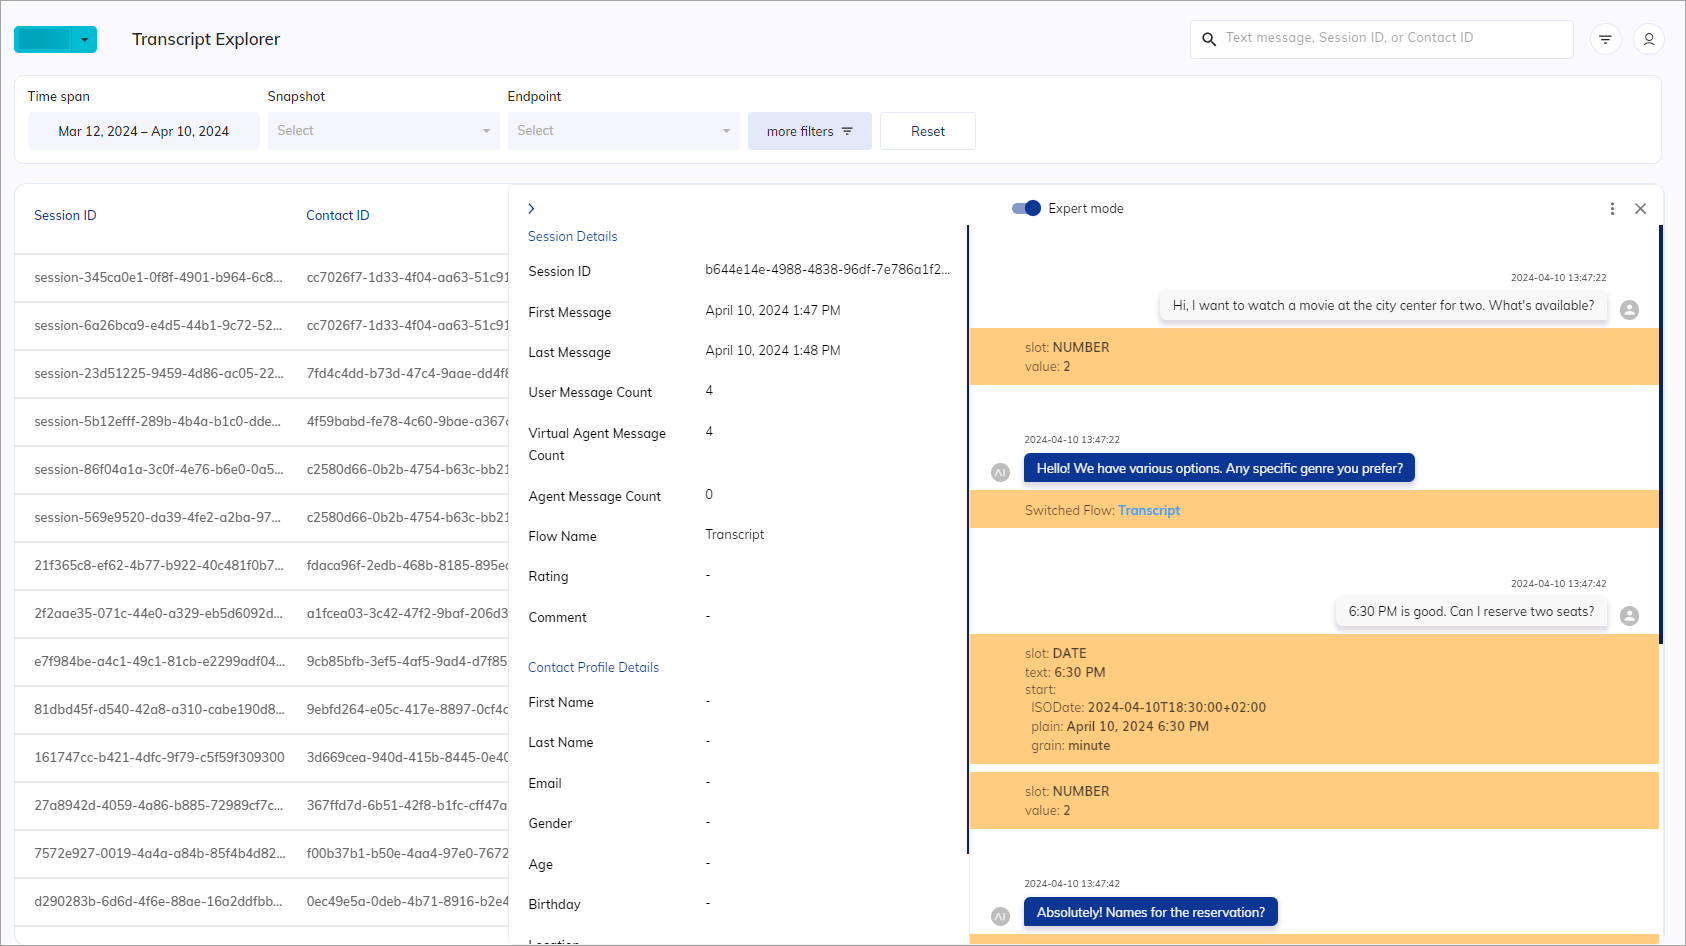
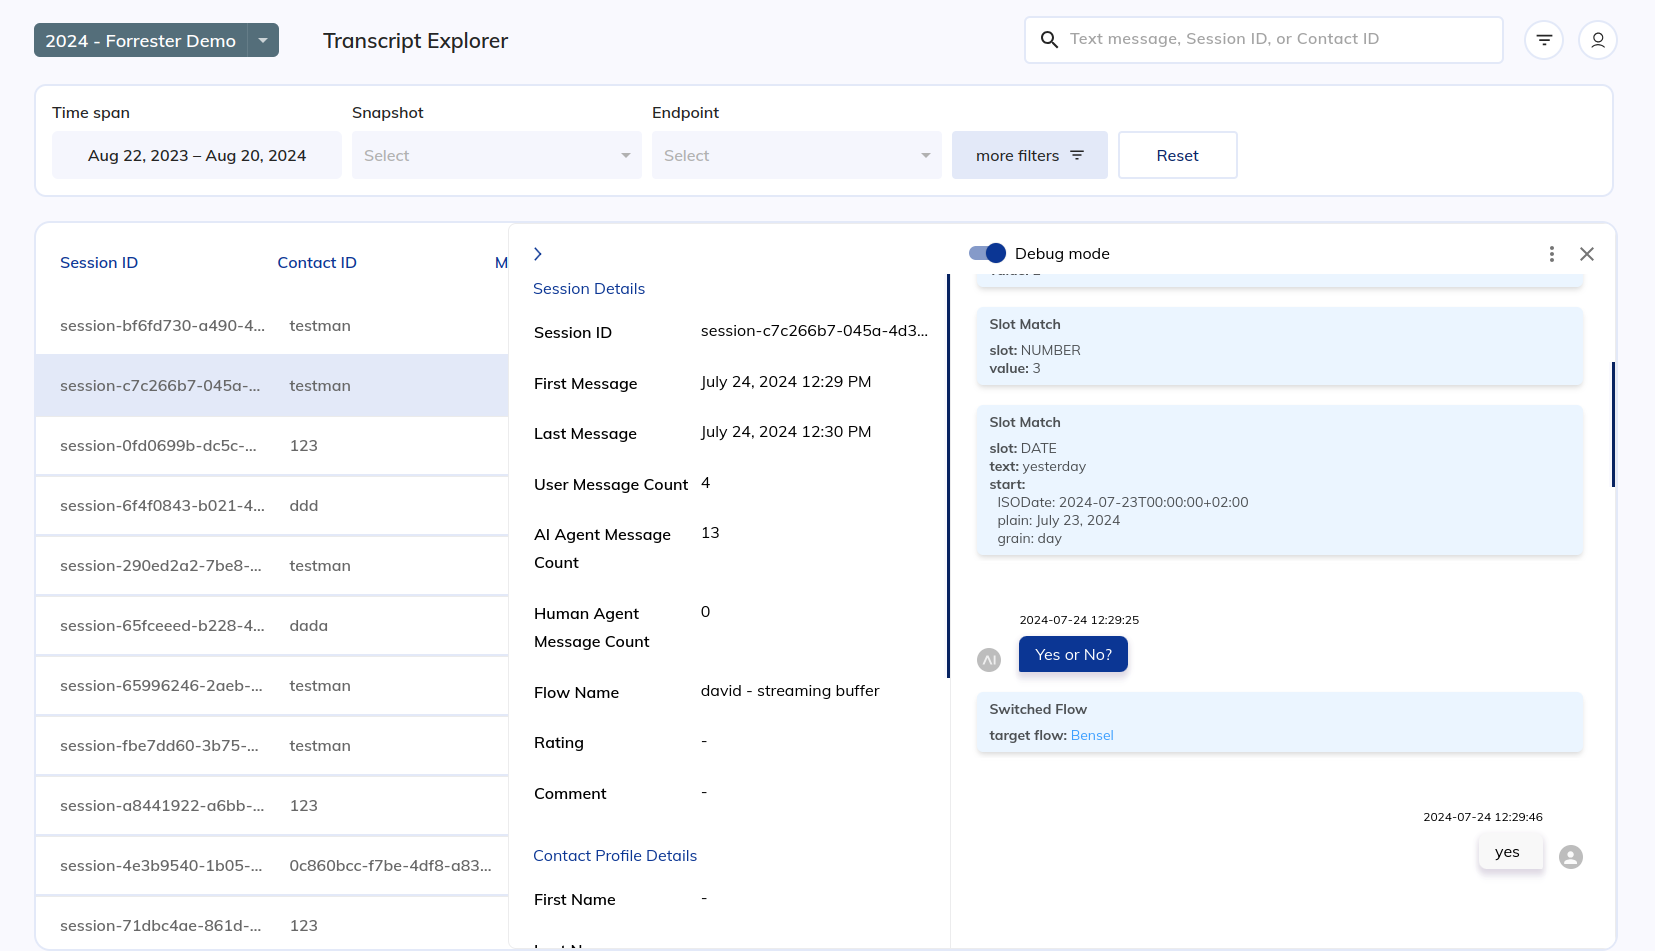
Added Debug Mode documentation

diff --git a/docs/ai/test/interaction-panel/overview.md b/docs/ai/test/interaction-panel/overview.md
@@ -22,7 +22,7 @@ follow these steps to familiarize yourself with its features and start testing A
 1. [Open the Interaction Panel](#open-the-interaction-panel) and [configure the Project-related settings](#project-related-settings).
 2. [Select the mode](#test) in which you want to test the AI Agent.
 3. [Examine the data stored in the AI Agent's memory](#info) and how it's reused.
-4. Consider enabling [additional settings](#settings), such as [Expert mode](#expert-mode), for more detailed testing.
+4. Utilize the [Debug mode](#debug-mode) for more detailed testing.
 5. Run [Playbooks](#playbooks) to catch potential errors.
 
 ## Open the Interaction Panel
@@ -118,6 +118,7 @@ In **Chat** mode, you can use additional settings:
 - **Reset Session** — the setting clears the chat history in the Interaction Panel. 
 - **Create Playbook** — the setting starts a new Playbook for testing conversations. For more information, refer to [Playbooks](../playbooks.md).
 - **Create Playbook with Assertions** — the setting starts a new Playbook with assertions for in-depth testing. For more information, refer to [Playbook with Assertions](../playbooks.md#assertion).
+- **Enable/Disable Debug Mode** - the setting toggles the [Debug mode](#debug-mode) (enabled by default)
 
 #### Voice Call
 
@@ -248,8 +249,10 @@ To configure the relevant settings for the Interaction Panel, click the tab **Se
 | **General**                       |                                                                                                                                                                |
 | NLU Connector                     | Provides a selection list. The default is the Cognigy NLU engine.                                                                                              |
 | Text to Speech                    | Reads out messages from the system.                                                                                                                            |
-| Expert Mode                       | Displays additional information about the Flow.                                                                                                                |
 | Channel Selection                 | Provides a selection list for Endpoint providers.                                                                                                              |
+| **Debug Mode**                    |                                                                                                                                                                |
+| Debug Mode toggle                 | Enable/disable Debug Mode.                                                                                                                |
+| Node Filter                       | Select the Node types to show in Debug mode.                                                                                                                   |
 | **Chat**                          |                                                                                                                                                                |
 | Show Data Input                   | Displays data input.                                                                                                                                           |
 | **Voice Call**                    |                                                                                                                                                                |
@@ -278,25 +281,34 @@ For more information on how to manage NLU connectors, refer to [NLU Connectors](
 The **Chat Output** setting lets you customize how information is displayed in the Interaction Panel:
 
 - [Text to Speech](#text-to-speech) — activate this setting to have system messages read aloud.
-- [Expert mode](#expert-mode) — activate this mode to view more details about the Flow execution.
+- [Debug mode](#debug-mode) — activate this mode to view more details about the Flow execution.
 - [Channel Select](#channel-select) — select the channels you want to display from the list.
 
 ##### Text-to-Speech
 
 When the **Text-to-Speech** setting is enabled, an AI Agent will vocalize its responses using your browser's built-in Text-to-Speech (TTS) functionality.
 
-##### Expert Mode
+##### Debug Mode
 
 [![Version badge](https://img.shields.io/badge/Updated in-v4.47-blue.svg)](../../../release-notes/4.47.md)
 
-If the **Expert Mode** setting is enabled, the Interaction Panel displays more information about the Flow execution, including:
+If the **Debug Mode** setting is enabled, the Interaction Panel displays more information about the Flow execution, including:
 
 - Triggered [Intents](../../empower/nlu/intents/ml-intents.md) and their [score](../../empower/nlu/intents/intent-analyzer.md).
 - Triggered [Yes/No Intents](../../empower/nlu/intents/yes-no-intents.md) and their [score](../../empower/nlu/intents/intent-analyzer.md).
-- The name of the Flow that was triggered. 
+- Matched [Slots](../../empower/nlu/slots-and-lexicons/slots.md)
+- Found [Lexicon Keyphrases](../../empower/nlu/slots-and-lexicons/lexicons.md)
+- [State](./state.md) changes
+- Flow Transitions, e.g. when executing a [Go To Node](../../build/node-reference/logic/go-to.md), an [Execute Flow Node](../../build/node-reference/logic/execute-flow.md), or triggering an [Attached Flow](../../empower/nlu/attachments/attached-flows.md).
+- Node specific output, e.g. from a [HTTP Request Node](../../build/node-reference/service/http-request.md). Some Nodes have settings to further configure their Debug Mode output. The Node specific outputs can be disabled granularly in the Interaction Panel [settings](#settings).
+
+Debug Messages can also be triggered explicitly, either using
+
+- the [Debug Message](../../build/node-reference/basic/debug-message.md) Node, or
+- the [debug actions](../../build/node-reference/basic/code/actions.md#actionslogdebugmessage--actionslogdebugerror--apilogdebugmessage--apilogdebugerror) in the Code Node
 
 <figure>
-  <img class="image-center" src="../../../../_assets/ai/test/interaction-panel/interaction-panel-chat-tab-expert-mode.png" width="80%" />
+  <img class="image-center" src="../../../../_assets/ai/test/interaction-panel/interaction-panel-chat-tab-debug-mode.png" width="80%" />
 </figure>
 
 ##### Channel Select

diff --git a/docs/insights/explorers/transcript.md b/docs/insights/explorers/transcript.md
@@ -110,7 +110,7 @@ To view a session transcript, select a session from the list on the **Transcript
 
 <figure>
   <img class="image-center" src="../../../_assets/insights/explorers/transcript/Transcript_Explorer_profile.png" width="100%" />
-  <figcaption>Session Transcript with Expert Mode</figcaption>
+  <figcaption>Session Transcript with Debug Mode</figcaption>
 </figure>
 
 ### Session Transcript
@@ -118,11 +118,11 @@ To view a session transcript, select a session from the list on the **Transcript
 Session transcripts display all individual messages between the end user and agent during their conversation. By selecting a session, the corresponding transcript will be displayed on the right side of the page.
 You can use the scroll bar to navigate through the messages in the **Session Transcript** window.
 
-#### Expert mode
+#### Debug Mode
 
-Insights' Expert mode is equivalent to the Expert mode in the  [Interaction Panel](../../ai/test/interaction-panel/overview.md#expert-mode) documentation.
+Insights' Debug mode is not fully equivalent to the Debug mode in the [Interaction Panel](../../ai/test/interaction-panel/overview.md#debug-mode) documentation. Debug Messages from Nodes (including Code Nodes and Debug Message Nodes) are only meant for immediate testing and therefore only viewable in the Interaction Panel.
 
-The Expert mode offers additional context for conversation messages, including:
+The Debug mode offers additional context for conversation messages, including:
 
 - Triggered Intent and its score
 - Filled Slots
@@ -132,12 +132,12 @@ The Expert mode offers additional context for conversation messages, including:
 
 Additionally, you can switch to a Flow related to the current session.
 
-To activate Expert mode, do the following:
+To activate Debug mode, do the following:
 
 1. Go to the Insights interface.
 2. From the left-side menu, select **Transcript Explorer**.
 3. On the **Transcript Explorer** page, select a session from the list. The session transcript will be displayed in a separate window on the right side.
-4. At the top of the **Session Transcript** window, activate the **Expert mode** toggle.
+4. At the top of the **Session Transcript** window, activate the **Debug mode** toggle.
 
 #### Playbooks
 

diff --git a/docs/insights/glossary.md b/docs/insights/glossary.md
@@ -41,8 +41,8 @@ _**Download Report**_
 _**Endpoints**_
 : Endpoints ensure that channel-specific input and output (images, galleries, voice) are converted to the standardized Input object. This means that a Cognigy Flow only needs to be developed once, after which it can be deployed to multiple channels by configuring Endpoints. Examples of Endpoints include Webchat, Voice Gateway, Microsoft Teams, and more. In Insights, you can select one or more Endpoints for analysis. For more information, read the [Endpoints](global-filters.md#endpoints) documentation.
 
-_**Expert Mode**_
-: This mode provides additional information for conversation messages, including the triggered Intent and its score, as well as the filled Slots. You can enable Expert Mode by toggling the switch at the top of the Transcript panel. For more information, read the [Expert Mode](explorers/transcript.md#expert-mode) documentation.
+_**Debug Mode**_
+: This mode provides additional information for conversation messages, including the triggered Intent and its score, as well as the filled Slots. You can enable Debug Mode by toggling the switch at the top of the Transcript panel. For more information, read the [Debug Mode](explorers/transcript.md#debug-mode) documentation.
 
 _**Engagement**_
 : A dashboard in Cognigy Insights that displays performance metrics for your agent, focusing on customer interactions in conversations. For more information, read the [Engagement Dashboard](dashboards/engagement.md) documentation.

diff --git a/docs/ai/build/node-reference/basic/debug-message.md b/docs/ai/build/node-reference/basic/debug-message.md
@@ -1,0 +1,25 @@
+---
+title: "Debug Message" 
+slug: "debug-message" 
+hidden: false 
+---
+
+# Debug Message
+
+<figure>
+  <img class="image-center" src="../../../../../_assets/ai/build/node-reference/message/debug-message.png" width="80%" />
+</figure>
+
+## Description
+
+A **Debug Message** Node is used to send a debug message to the Interaction Panel. To be able to view it, the [Debug Mode](../../../test/interaction-panel/overview.md#debug-mode) needs to be enabled. 
+
+## Settings
+
+| Parameter    | Type          | Description                  |
+|--------------|---------------|------------------------------|
+| Debug Level  | Select        | The Debug message level. Error messages will be displayed with a red background. One of:<br/>- Info<br/>- Error |
+| Header       | CognigyScript | The header text of the debug message. (optional)                                                                |
+| Message      | CognigyScript | The message text of the debug message. (required)                                                               |
+
+

diff --git a/docs/ai/build/node-reference/basic/code/actions.md b/docs/ai/build/node-reference/basic/code/actions.md
@@ -1,10 +1,10 @@
 ---
-title: "Action" 
+title: "Actions" 
 slug: "actions" 
 hidden: false 
 ---
 
-# Action
+# Actions
 
 [![Version badge](https://img.shields.io/badge/Updated in-v4.68-blue.svg)](../../../../../release-notes/4.68.md)
 
@@ -53,6 +53,21 @@ Sets the time zone offset from UTC.
 | Parameter | Type     | Description               |
 |-----------|----------|---------------------------|
 | offset    | *number* | The time offset in hours. |
+
+**Returns**
+
+void
+
+### actions.logDebugMessage / actions.logDebugError || api.logDebugMessage / api.logDebugError
+
+Send a debug message or debug error message. Only visible in the Interaction Panel's [Debug Mode](../../../../test/interaction-panel/overview.md#debug-mode).
+
+**Parameters**
+
+| Parameter | Type   | Description                                       |
+|-----------|--------|---------------------------------------------------|
+| message   | string | The debug message text.    |
+| header    | string | The Header text for the debug message (optional). |
 
 **Returns**
 

diff --git a/docs/ai/build/node-reference/service/http-request.md b/docs/ai/build/node-reference/service/http-request.md
@@ -170,7 +170,7 @@ By default, Cognigy.AI will reject connecting against insecure SSL endpoints, su
   <figcaption>Error Handling</figcaption>
 </figure>
 
-### Error Handling
+### Error Handling & Logging
 #### Error Logging
 If HTTP Requests return a status code > 299, the response is considered an error. This setting allows the user to either:
 
@@ -180,6 +180,14 @@ If HTTP Requests return a status code > 299, the response is considered an error
 
 #### Abort Flow Execution on Error
 If active, the Flow will stop here if the response returned with a status code > 299
+
+#### Debug Mode Logging
+Choose what information to log to [Debug Mode](../../../test/interaction-panel/overview.md#debug-mode) when using the Interaction Panel. The following options can be selected:
+
+- Do not log Request & Response
+- Request
+- Response
+- Request & Response
 
 ## GET Requests
 

diff --git a/docs/ai/empower/nlu/intents/intent-analyzer.md b/docs/ai/empower/nlu/intents/intent-analyzer.md
@@ -92,7 +92,7 @@ The **Intent Analyzer** uses a traffic light color system to provide users with 
 
 [![Version badge](https://img.shields.io/badge/Added in-v4.79-blue.svg)](../../../../release-notes/4.79.md)
 
-You can test NLU scores via the Interaction Panel by activating the [Expert Mode](../../../test/interaction-panel/overview.md#expert-mode) feature and exploring the detailed results in the `input.nlu.intentMapperResults.scores` object.
+You can test NLU scores via the Interaction Panel by activating the [Debug Mode](../../../test/interaction-panel/overview.md#debug-mode) feature and exploring the detailed results in the `input.nlu.intentMapperResults.scores` object.
 
 For more complex testing,
 you can use the API [POST /v2.0/projects/{projectId}/nlu/scores](https://api-trial.cognigy.ai/openapi#post-/v2.0/projects/-projectId-/nlu/scores) request

diff --git a/docs/ai/empower/nlu/nlu-warnings.md b/docs/ai/empower/nlu/nlu-warnings.md
@@ -23,7 +23,7 @@ Warnings will only be generated and forwarded to our user interface when the Int
 5. Go to the **Conditions** edit field and enter. For example, `input.includes==="condition"`.
 6. Click **Build Model** to finish the intent creation. Now user inputs can be scored of matching to the defined intent example sentences.
 7. Open the Interaction Panel on the right-hand side.
-8. For the scoring test, activate **Expert Mode** in the **SETTINGS** tab. Activated Expert Mode will show more detailed data on the Interaction Panel.
+8. For the scoring test, activate **Debug Mode** in the **SETTINGS** tab. Activated Debug Mode will show more detailed data on the Interaction Panel.
 
     <figure>
       <img class="image-center" src="../../../../_assets/ai/empower/nlu/expert-mode.png" width="100%" />

diff --git a/docs/ai/empower/nlu/intents/yes-no-intents.md b/docs/ai/empower/nlu/intents/yes-no-intents.md
@@ -98,7 +98,7 @@ To use Yes/No Intents for a specific Flow, do the following:
 ## Test your Flow by using the Interaction Panel
 
 !!! tip
-    Starting from Cognigy 4.47, Yes/No Intents are supported in [Expert mode](../../../test/interaction-panel/overview.md#expert-mode).
+    Starting from Cognigy 4.47, Yes/No Intents are supported in [Debug Mode](../../../test/interaction-panel/overview.md#debug-mode).
 
 Check if the Yes/No Intent feature works as expected via the [Interaction Panel](../../../test/interaction-panel/overview.md):
 

diff --git a/docs/ai/administer/hotkeys.md b/docs/ai/administer/hotkeys.md
@@ -32,7 +32,7 @@ The hotkeys listed in the table are applicable to the Interaction Panel.
 | Hotkey                     | Description            |
 |----------------------------|------------------------|
 | ++ctrl+b++  <br> ++cmd+b++ | Clear the Chat         |
-| ++ctrl+shift+f++           | Toggle the Expert mode |
+| ++ctrl+shift+f++           | Toggle the Debug mode |
 
 ## Intents
 

diff --git a/docs/ai/build/node-reference/basic/overview.md b/docs/ai/build/node-reference/basic/overview.md
@@ -15,3 +15,4 @@ You can use the following Basic Nodes:
 - [Optional Question](optional-question.md)
 - [Send Text](send-text.md)
 - [Code](code/overview.md)
+- [Debug Message](debug-message.md)
